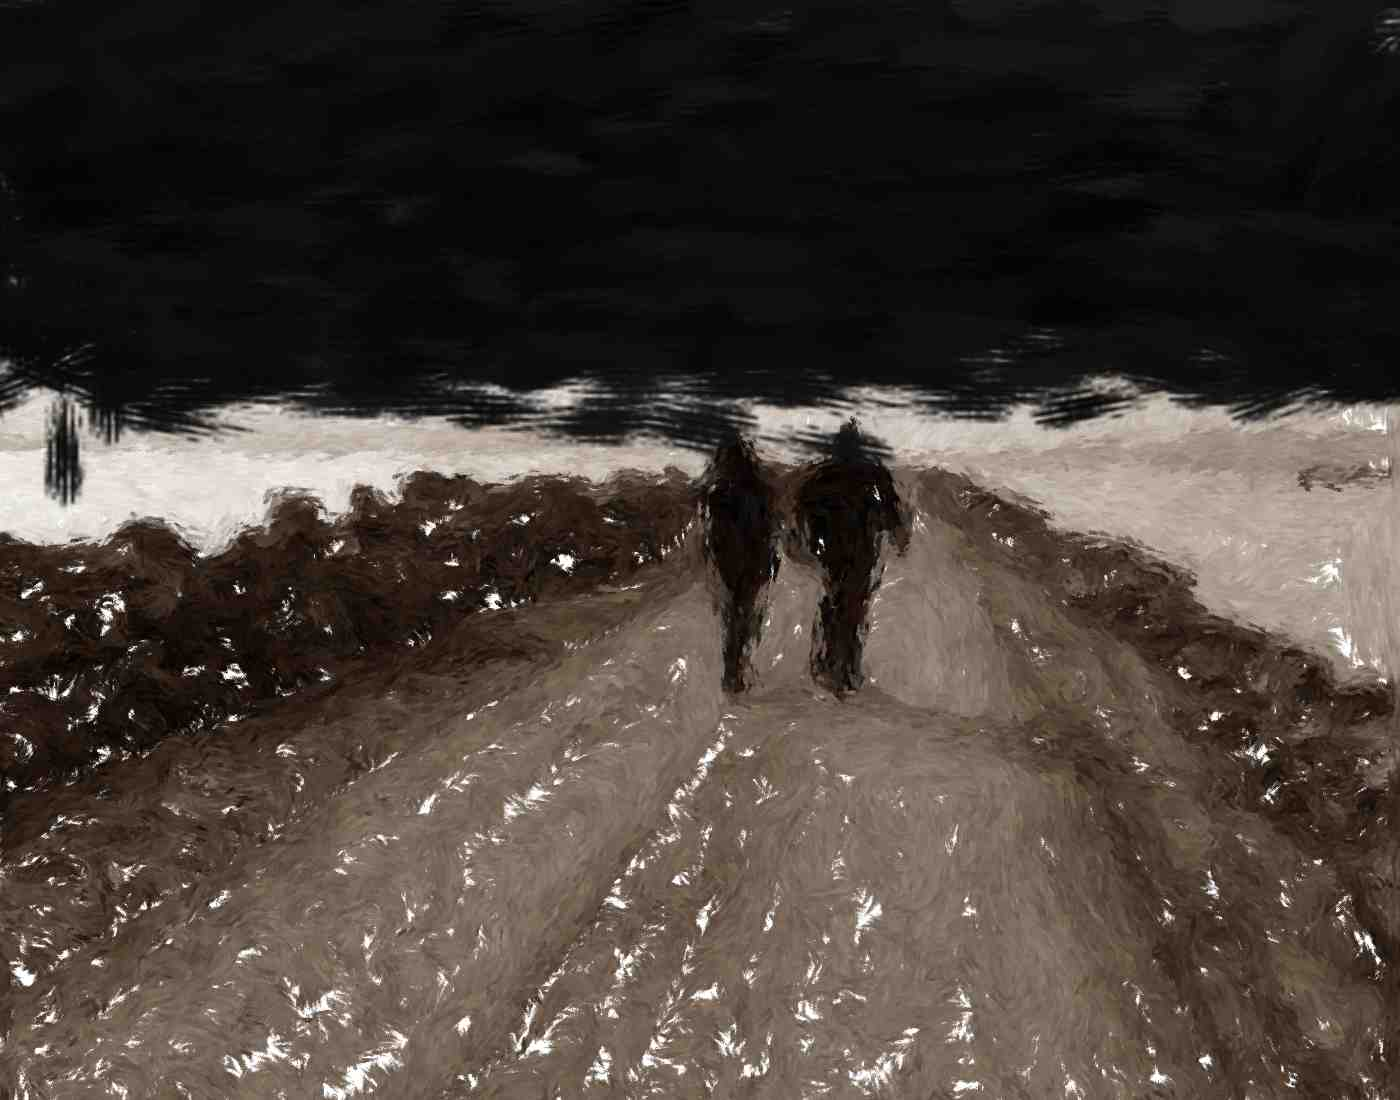
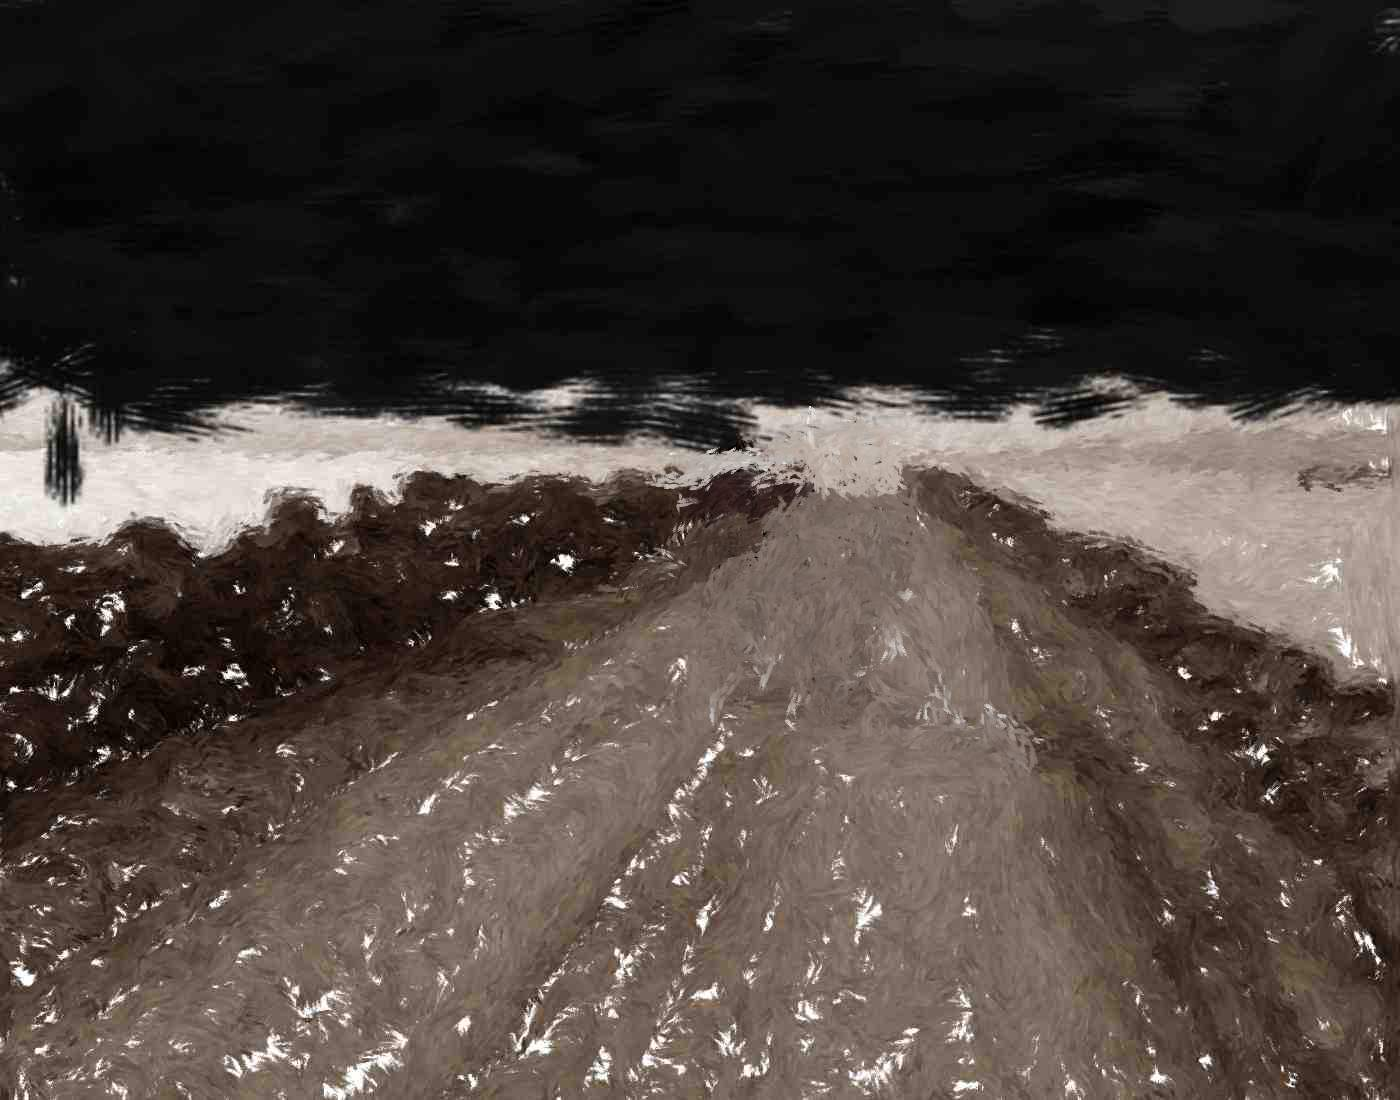
humans to spirits

Changed region(s): [[0.43, 0.3709, 0.7371, 0.7109]]

diff --git a/js/body.js b/js/body.js
@@ -1,4 +1,4 @@
-var Body = function(scene, basePosX, basePosY) {
+var Body = function(scene, basePosX, basePosY, xScale, yScale) {
 
 
   var scene = scene;
@@ -11,6 +11,11 @@ var Body = function(scene, basePosX, basePosY) {
     ajnaEmitter,
     crownEmitter;
 
+  var yBodyScale = yScale;
+  var xBodyScale = xScale;
+  var bodyGroup;
+  var bodyEmitter;
+
   var basePositionX = basePosX;
   var basePositionY = basePosY;
   var increment = 2;
@@ -18,6 +23,7 @@ var Body = function(scene, basePosX, basePosY) {
   var size = 10;
   var maxAge = 4;
   var pps = 2000;
+  var bodyPps = 300;
   var opacityStart = 0.05;
   var opacityMiddle = 0.1;
   var opacityEnd = 0.05;
@@ -27,12 +33,40 @@ var Body = function(scene, basePosX, basePosY) {
 
   var initParticles = function() {
 
+    bodyGroup = new ShaderParticleGroup({
+      texture: THREE.ImageUtils.loadTexture('./img/smokeparticle.png'),
+      maxAge: 1
+    })
+
     chakraGroup = new ShaderParticleGroup({
       texture: THREE.ImageUtils.loadTexture('./img/smokeparticle.png'),
       maxAge: maxAge
     });
 
 
+
+    //***BODY********
+    bodyEmitter = new ShaderParticleEmitter({
+      type: 'sphere',
+      position: new THREE.Vector3(basePositionX, basePositionY, 0),
+
+      colorStart: new THREE.Color('#B2A1A3'),
+
+      colorEnd: new THREE.Color('#B2A1A3'),
+
+
+      radius: 4,
+      radiusScale: new THREE.Vector3(xBodyScale, yBodyScale, 1),
+      speed: 2,
+
+
+
+      opacityStart: 0,
+      opacityMiddle: 0.3,
+      opacityEnd: 0,
+
+      particlesPerSecond: bodyPps
+    })
 
     //****ROOOOT******
     rootEmitter = new ShaderParticleEmitter({
@@ -195,12 +229,18 @@ var Body = function(scene, basePosX, basePosY) {
     chakraGroup.addEmitter(throatEmitter);
     chakraGroup.addEmitter(ajnaEmitter);
     chakraGroup.addEmitter(crownEmitter);
+
+    bodyGroup.addEmitter(bodyEmitter);
+    chakraGroup.renderDepth = 2;
+    bodyGroup.renderDepth = 1;
     scene.add(chakraGroup.mesh);
+    scene.add(bodyGroup.mesh);
 
   }
 
   var tick = function(dt) {
     chakraGroup.tick(dt);
+    bodyGroup.tick(dt);
   }
   this.initParticles = initParticles;
   this.tick = tick;

diff --git a/js/world.js b/js/world.js
@@ -26,8 +26,8 @@ var World = function() {
 	}
 
 	function initBodies() {
-		body = new Body(scene, 4.5, -5);
-		body2 = new Body(scene, 16.5, -4);
+		body = new Body(scene, 4.5, -5, 0.9, 2);
+		body2 = new Body(scene, 16.5, -4, 1.1, 2.2);
 		body.initParticles();
 		body2.initParticles(); 
 	}

diff --git a/index.html b/index.html
@@ -22,8 +22,8 @@
 
 
   <script>
-  var playSong = function(){
     var world = new World();
+  var playSong = function(){
     var song = document.getElementById("song");
     song.play();
   }
